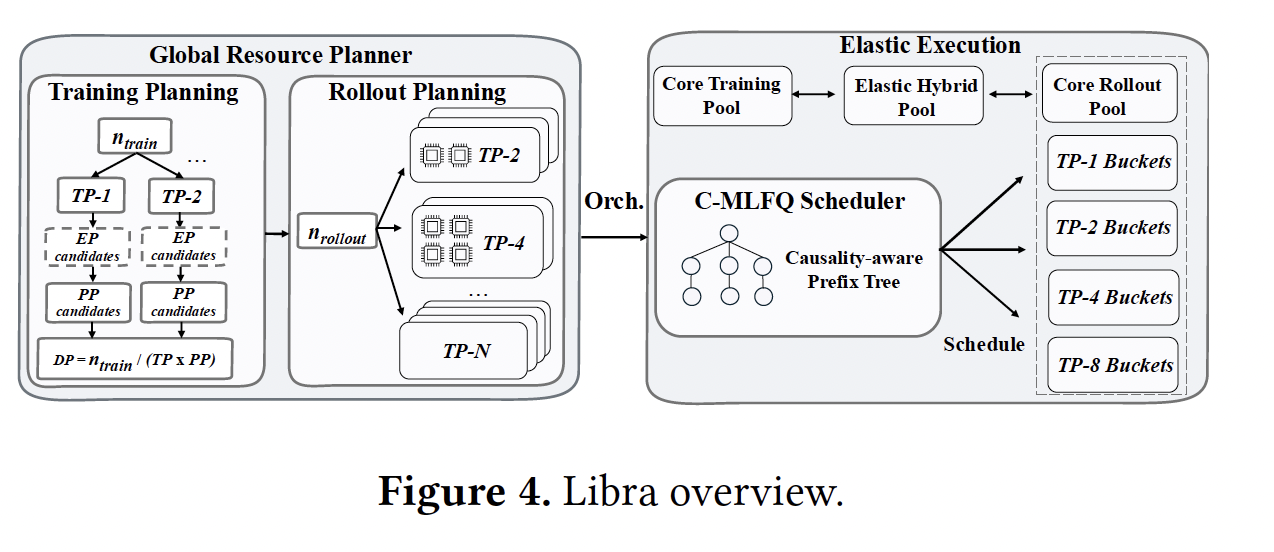
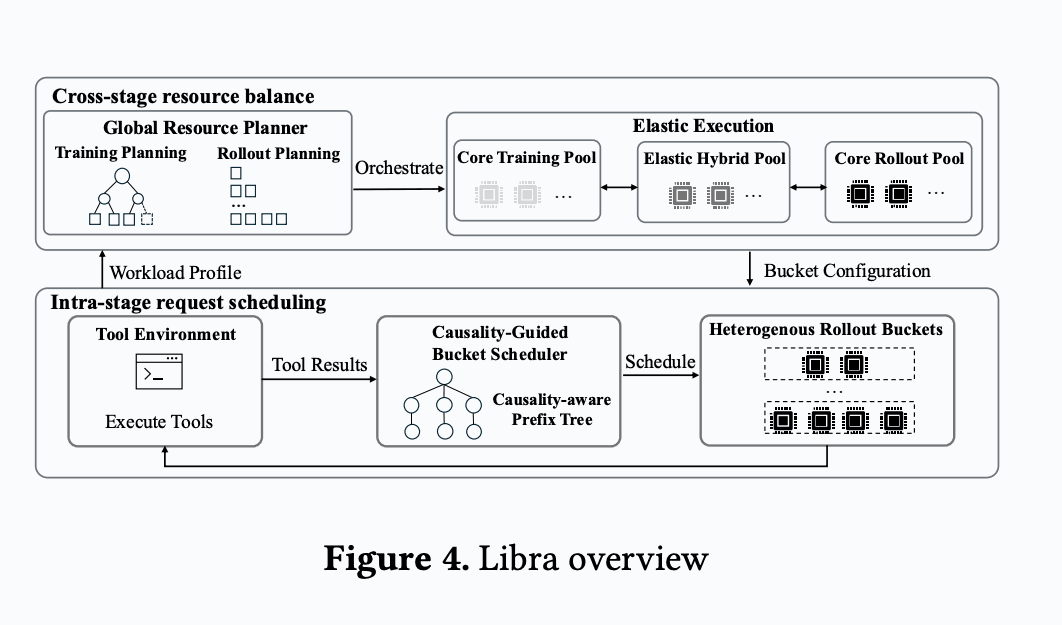
docs: update README for arXiv v3

Changed region(s): [[0.0, 0.0308, 0.9633, 0.7699], [0.2797, 0.8623, 0.6836, 0.9547], [0.9322, 0.0616, 0.9633, 0.0924]]

diff --git a/README.md b/README.md
@@ -26,6 +26,7 @@
   <a href="#latest-news">Latest News</a> ·
   <a href="#features">Features</a> ·
   <a href="#system-overview">Architecture</a> ·
+  <a href="#evaluation-highlights">Evaluation</a> ·
   <a href="#installation">Installation</a> ·
   <a href="docs/manual.md">Manual</a> ·
   <a href="#citation">Citation</a>
@@ -33,14 +34,19 @@
 
 Libra coordinates training and rollout clusters, routes requests across
 heterogeneous vLLM workers, and adapts resource allocation as workload pressure
-changes during training.
+changes during training. Across three agentic RL benchmarks on both GPU and NPU
+clusters, Libra delivers up to **4.2x higher throughput** and **2.7x faster
+reward convergence**.
 
 This repository accompanies the paper **"Libra: Efficient Resource Management
 for Agentic RL Post-Training"**. Read the [paper](https://arxiv.org/abs/2606.03077) for the full design.
 
 ## Latest News
 
-- **2026-08-11** -- A new NPU_support branch has been added, enabling NPU support for all core functionalities.
+- **2026-09-16** -- arXiv v3 adds GPU and NPU evaluation, causality-guided
+  scheduling, and non-blocking elastic coordination.
+- **2026-08-11** -- The `NPU_Support` branch added NPU support for all core
+  functionalities.
 - **2026-08-03** -- Libra was officially open sourced.
 
 ## System Overview
@@ -49,11 +55,13 @@ for Agentic RL Post-Training"**. Read the [paper](https://arxiv.org/abs/2606.030
 
 Libra splits RL post-training into a core training pool, a core rollout pool,
 and an elastic hybrid pool. The Global Resource Planner chooses how many GPUs
-belong to training and rollout, then selects the training parallelism and the
-heterogeneous rollout TP buckets. The C-MLFQ scheduler routes rollout requests
-through the core rollout pool according to causality-aware trajectory state.
-Elastic execution applies planner decisions by moving capacity between the
-training and rollout sides while keeping the core training process group stable.
+belong to training and rollout, then jointly selects the training parallelism
+(TP/EP/PP/DP) and heterogeneous rollout TP buckets. The Causality-Guided Bucket
+Scheduler uses tool-return states to estimate residual sequence length and route
+requests to suitable buckets. Elastic execution moves complete data-parallel
+replicas between rollout and training through decoupled communication domains
+and a non-blocking RDMA joining protocol, keeping the core training topology
+stable.
 
 ## Repository Layout
 
@@ -87,19 +95,21 @@ RL_Framework/
 - **Online dynamic replanning.** Periodically consumes runtime history and queue
   pressure, evaluates candidate allocations, and applies a new plan only when
   the expected benefit exceeds the configured transition cost.
-- **C-MLFQ scheduler.** Maintains a causality-aware prefix tree from completed
-  trajectories and routes new or resumed rollout requests to TP buckets based on
-  observed tool-return state and remaining work.
+- **Causality-Guided Bucket Scheduler.** Maintains a causality-aware prefix tree
+  over tool type, payload size, and execution status. It uses the resulting
+  residual-length distribution to route or migrate requests across TP buckets
+  without a separately trained length predictor.
 - **Heterogeneous rollout cluster.** Runs multiple OpenAI-compatible vLLM
   instances with different tensor-parallel degrees, such as TP-1, TP-2, TP-4,
   and TP-8 buckets.
-- **Elastic Hybrid Pool.** Models workers that can move between rollout and
-  training roles without changing the fixed core training topology.
+- **Elastic Hybrid Pool.** Moves complete data-parallel replicas between rollout
+  and training without changing the fixed core training topology.
 - **Decoupled communication domains.** Keeps core training collectives separate
   from elastic hybrid-worker gradient exchange, so dynamic training-side
   changes do not perturb Megatron-Core or FSDP process groups.
-- **Cluster-swap execution.** Supports no-spare-GPU resource exchange between
-  rollout and training pools when the planner changes the allocation.
+- **Two-tier reconfiguration.** Handles transient imbalance by switching hybrid
+  workers between roles, while persistent workload shifts trigger planned core
+  pool repartitioning during pipeline slack windows.
 - **Megatron-Core training backend.** Supports tensor parallelism, distributed
   optimizer, sharded checkpoint metadata, precision-aware optimizer settings,
   and CPU optimizer offload for large models.
@@ -109,7 +119,19 @@ RL_Framework/
 - **Agentic workloads.** Includes workflows and rewards for R2E-Gym,
   Search-R1, DAPO-Math-17K, GSM8K, and code-agent style experiments.
 - **Observability.** Records history, runtime planner decisions, throughput,
-  rewards, C-MLFQ prefix trees, rollout manifests, and reconfiguration events.
+  rewards, scheduler prefix trees, rollout manifests, and reconfiguration events.
+
+## Evaluation Highlights
+
+The updated paper evaluates Libra with Qwen3-14B and Qwen3-30B-A3B on
+Search-R1, R2E-Gym, and DAPO-Math-17K:
+
+- **48x NVIDIA A800-SXM4-80GB GPUs:** 4.2x peak throughput improvement and up
+  to 2.73x faster end-to-end reward convergence.
+- **160x Ascend 910B3 NPUs:** 18%-37% higher throughput than DynaRL and up to
+  2.26x faster end-to-end reward convergence.
+- **Online causality-aware routing:** reacts to tool payloads and failures at
+  runtime, avoiding repeated threshold-based migrations as trajectories grow.
 
 ## Documentation
 
@@ -166,7 +188,8 @@ If Libra is useful in your research, please cite:
 ```bibtex
 @misc{chen2026libraefficientresourcemanagement,
       title={Libra: Efficient Resource Management for Agentic RL Post-Training},
-      author={Kaiwen Chen and Xin Tan and Jingzong Li and Hong Xu},
+      author={Kaiwen Chen and Xin Tan and Jingzong Li and Zhi Zhou and Cen Li and
+              Jiang Liu and Jie Meng and Jiazhi Jiang and Hong Xu},
       year={2026},
       eprint={2606.03077},
       archivePrefix={arXiv},
